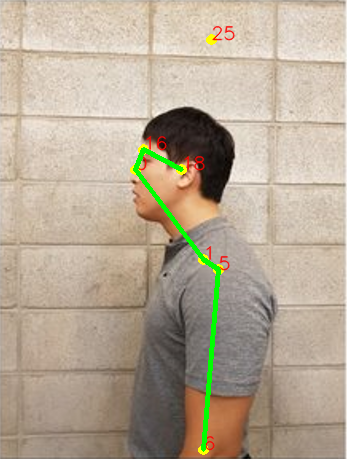
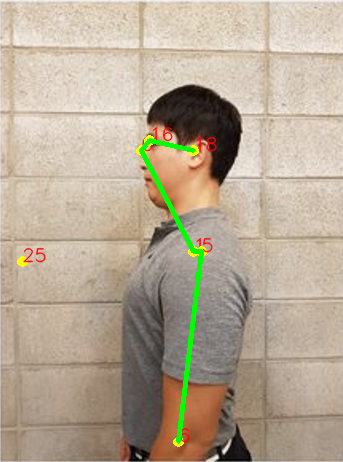
ai_server update

diff --git a/ai_server/body_25.py b/ai_server/body_25.py
@@ -77,7 +77,6 @@ def output_keypoints(frame, proto_file, weights_file, threshold, model_name, BOD
 
     cv2.imshow("Output_Keypoints", frame)
     cv2.waitKey(0)
-    print('hi')
     return frame
 
 def output_keypoints_with_lines(frame, POSE_PAIRS):
@@ -105,28 +104,28 @@ def output_keypoints_with_lines(frame, POSE_PAIRS):
     cv2.waitKey(0)
     cv2.destroyAllWindows()
 
-BODY_PARTS_BODY_25 = {0: "Nose", 1: "Neck", 2: "RShoulder", 3: "RElbow", 4: "RWrist",
-                      5: "LShoulder", 6: "LElbow", 7: "LWrist", 8: "MidHip", 9: "RHip",
-                      10: "RKnee", 11: "RAnkle", 12: "LHip", 13: "LKnee", 14: "LAnkle",
-                      15: "REye", 16: "LEye", 17: "REar", 18: "LEar", 19: "LBigToe",
-                      20: "LSmallToe", 21: "LHeel", 22: "RBigToe", 23: "RSmallToe", 24: "RHeel", 25: "Background"}
+# BODY_PARTS_BODY_25 = {0: "Nose", 1: "Neck", 2: "RShoulder", 3: "RElbow", 4: "RWrist",
+#                       5: "LShoulder", 6: "LElbow", 7: "LWrist", 8: "MidHip", 9: "RHip",
+#                       10: "RKnee", 11: "RAnkle", 12: "LHip", 13: "LKnee", 14: "LAnkle",
+#                       15: "REye", 16: "LEye", 17: "REar", 18: "LEar", 19: "LBigToe",
+#                       20: "LSmallToe", 21: "LHeel", 22: "RBigToe", 23: "RSmallToe", 24: "RHeel", 25: "Background"}
 
-POSE_PAIRS_BODY_25 = [[0, 1], [0, 15], [0, 16], [1, 2], [1, 5], [1, 8], [8, 9], [8, 12], [9, 10], [12, 13], [2, 3],
-                      [3, 4], [5, 6], [6, 7], [10, 11], [13, 14], [15, 17], [16, 18], [14, 21], [19, 21], [20, 21],
-                      [11, 24], [22, 24], [23, 24]]
+# POSE_PAIRS_BODY_25 = [[0, 1], [0, 15], [0, 16], [1, 2], [1, 5], [1, 8], [8, 9], [8, 12], [9, 10], [12, 13], [2, 3],
+#                       [3, 4], [5, 6], [6, 7], [10, 11], [13, 14], [15, 17], [16, 18], [14, 21], [19, 21], [20, 21],
+#                       [11, 24], [22, 24], [23, 24]]
 
-# 신경 네트워크의 구조를 지정하는 prototxt 파일 (다양한 계층이 배열되는 방법 등)
-protoFile_body_25 = ".\\body_25\\pose_deploy.prototxt"
+# # 신경 네트워크의 구조를 지정하는 prototxt 파일 (다양한 계층이 배열되는 방법 등)
+# protoFile_body_25 = ".\\body_25\\pose_deploy.prototxt"
 
-# 훈련된 모델의 weight 를 저장하는 caffemodel 파일
-weightsFile_body_25 = ".\\body_25\\pose_iter_584000.caffemodel"
+# # 훈련된 모델의 weight 를 저장하는 caffemodel 파일
+# weightsFile_body_25 = ".\\body_25\\pose_iter_584000.caffemodel"
 
-# 이미지 경로
-man = ".\\Pictures\\bad.png"
+# # 이미지 경로
+# man = ".\\Pictures\\good.png"
 
-frame_body_25 = cv2.imread(man)
+# frame_body_25 = cv2.imread(man)
 
-# BODY_25 Model
-frame_BODY_25 = output_keypoints(frame=frame_body_25, proto_file=protoFile_body_25, weights_file=weightsFile_body_25,
-                             threshold=0.2, model_name="BODY_25", BODY_PARTS=BODY_PARTS_BODY_25)
-output_keypoints_with_lines(frame=frame_BODY_25, POSE_PAIRS=POSE_PAIRS_BODY_25)
+# # BODY_25 Model
+# frame_BODY_25 = output_keypoints(frame=frame_body_25, proto_file=protoFile_body_25, weights_file=weightsFile_body_25,
+#                              threshold=0.2, model_name="BODY_25", BODY_PARTS=BODY_PARTS_BODY_25)
+# output_keypoints_with_lines(frame=frame_BODY_25, POSE_PAIRS=POSE_PAIRS_BODY_25)

diff --git a/ai_server/app/__init__.py b/ai_server/app/__init__.py
@@ -1,0 +1,42 @@
+from flask import Flask
+from app.views import add_numbers
+from body_25 import output_keypoints_with_lines, output_keypoints
+import cv2
+app = Flask(__name__)
+
+@app.route('/')
+def index():
+    return "Welcome to the index page!"
+
+@app.route('/run', methods=["POST"])
+def add_numbers_route():
+    BODY_PARTS_BODY_25 = {0: "Nose", 1: "Neck", 2: "RShoulder", 3: "RElbow", 4: "RWrist",
+                    5: "LShoulder", 6: "LElbow", 7: "LWrist", 8: "MidHip", 9: "RHip",
+                    10: "RKnee", 11: "RAnkle", 12: "LHip", 13: "LKnee", 14: "LAnkle",
+                    15: "REye", 16: "LEye", 17: "REar", 18: "LEar", 19: "LBigToe",
+                    20: "LSmallToe", 21: "LHeel", 22: "RBigToe", 23: "RSmallToe", 24: "RHeel", 25: "Background"}
+
+    POSE_PAIRS_BODY_25 = [[0, 1], [0, 15], [0, 16], [1, 2], [1, 5], [1, 8], [8, 9], [8, 12], [9, 10], [12, 13], [2, 3],
+                        [3, 4], [5, 6], [6, 7], [10, 11], [13, 14], [15, 17], [16, 18], [14, 21], [19, 21], [20, 21],
+                        [11, 24], [22, 24], [23, 24]]
+
+    # 신경 네트워크의 구조를 지정하는 prototxt 파일 (다양한 계층이 배열되는 방법 등)
+    protoFile_body_25 = ".\\body_25\\pose_deploy.prototxt"
+
+    # 훈련된 모델의 weight 를 저장하는 caffemodel 파일
+    weightsFile_body_25 = ".\\body_25\\pose_iter_584000.caffemodel"
+
+    # 이미지 경로
+    man = ".\\Pictures\\good.png"
+
+    frame_body_25 = cv2.imread(man)
+   
+    # BODY_25 Model
+    frame_BODY_25 = output_keypoints(frame=frame_body_25, proto_file=protoFile_body_25, weights_file=weightsFile_body_25,
+                                threshold=0.2, model_name="BODY_25", BODY_PARTS=BODY_PARTS_BODY_25)
+    
+    output_keypoints_with_lines(frame=frame_BODY_25, POSE_PAIRS=POSE_PAIRS_BODY_25)
+    
+    
+    
+    return

diff --git a/ai_server/app/views.py b/ai_server/app/views.py
@@ -1,0 +1,7 @@
+from flask import Flask
+
+def hello_world():
+    return "Hello, World!"
+
+def add_numbers(a, b):
+    return a + b

diff --git a/ai_server/run.py b/ai_server/run.py
@@ -1,0 +1,4 @@
+from app import app
+
+if __name__ == "__main__":
+    app.run(debug=True)
